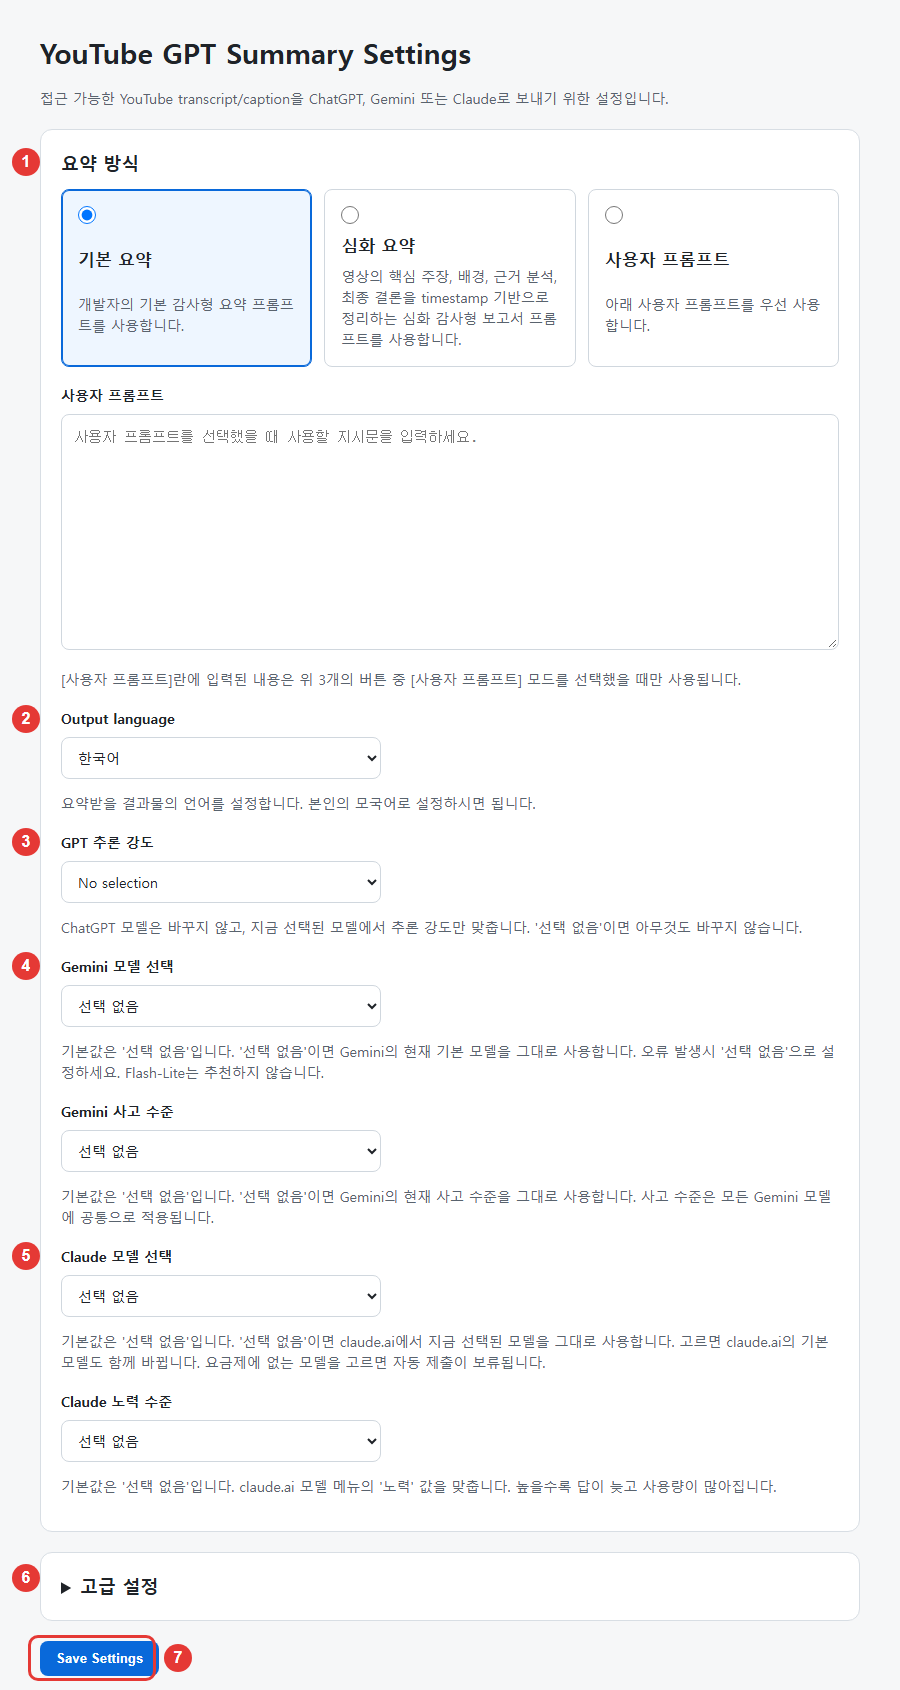
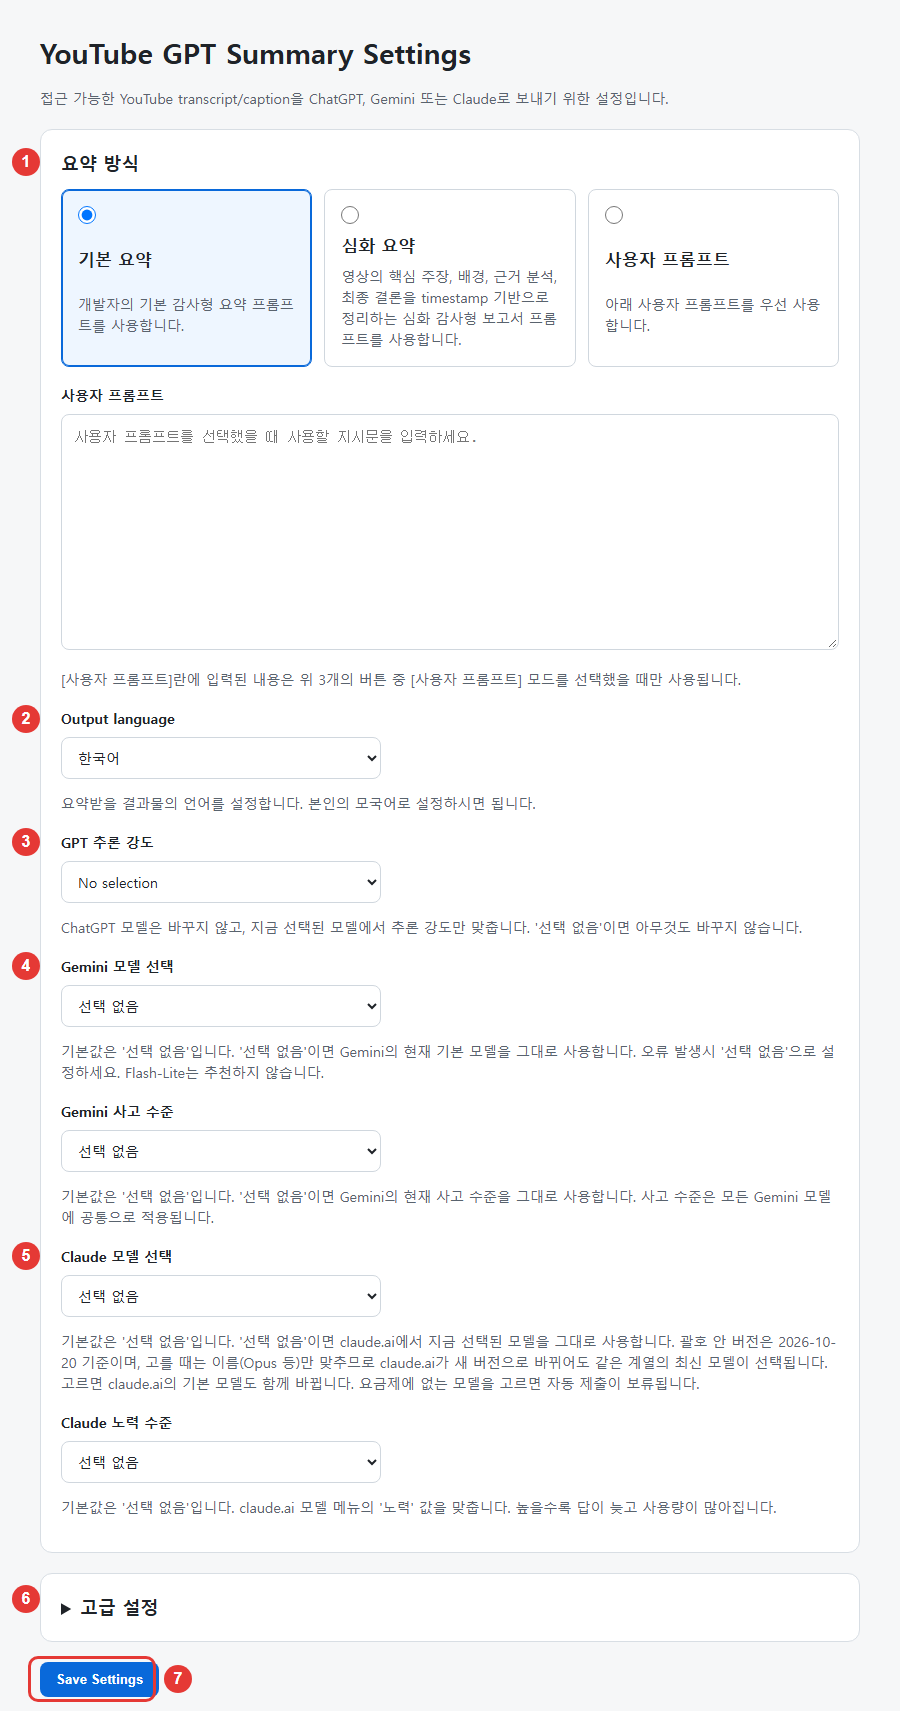
v0.1.112: Claude 모델 선택지에 현재 버전 표기, 선택은 이름(계열)으로만

diff --git a/src/shared/constants.js b/src/shared/constants.js
@@ -1,6 +1,6 @@
 globalThis.YGS = globalThis.YGS || {};
 
-globalThis.YGS.VERSION = "0.1.111";
+globalThis.YGS.VERSION = "0.1.112";
 
 globalThis.YGS.DEFAULT_SETTINGS = {
   customPrompt: null,
@@ -316,13 +316,15 @@ globalThis.YGS.GEMINI_THINKING_LEVELS = [
 
 // 2026-10-20 claude.ai model menu (menuitemradio rows): Fable 5.1 / Opus 5.5 / Sonnet 5.5 /
 // Haiku 5.5, each row followed by a short description. Older models sit under "더 많은 모델"
-// and are not offered. Matchers compare against the row's first line (the model name).
+// and are not offered. Matching uses the family name only ("prefix:opus"), never the version,
+// so a new release (e.g. Opus 6) is picked without a code change because the main list comes
+// first. The version in the label is display-only: update it when claude.ai changes.
 globalThis.YGS.CLAUDE_MODELS = [
   { value: "none", label: "선택 없음", matchers: [] },
-  { value: "fable", label: "Fable", matchers: ["prefix:fable"] },
-  { value: "opus", label: "Opus", matchers: ["prefix:opus"] },
-  { value: "sonnet", label: "Sonnet", matchers: ["prefix:sonnet"] },
-  { value: "haiku", label: "Haiku", matchers: ["prefix:haiku"] }
+  { value: "fable", label: "Fable (현재 Fable 5.1)", matchers: ["prefix:fable"] },
+  { value: "opus", label: "Opus (현재 Opus 5.5)", matchers: ["prefix:opus"] },
+  { value: "sonnet", label: "Sonnet (현재 Sonnet 5.5)", matchers: ["prefix:sonnet"] },
+  { value: "haiku", label: "Haiku (현재 Haiku 5.5)", matchers: ["prefix:haiku"] }
 ];
 
 // 2026-10-20 claude.ai "노력" submenu: 낮음 / 중간(추천) / 높음 / 엑스트라 / 최대(4x 이상 사용량).

diff --git a/src/options/options.html b/src/options/options.html
@@ -68,7 +68,7 @@
       <div class="model-area">
         <label for="claudeModel" class="label">Claude 모델 선택</label>
         <select id="claudeModel"></select>
-        <p class="hint">기본값은 '선택 없음'입니다. '선택 없음'이면 claude.ai에서 지금 선택된 모델을 그대로 사용합니다. 고르면 claude.ai의 기본 모델도 함께 바뀝니다. 요금제에 없는 모델을 고르면 자동 제출이 보류됩니다.</p>
+        <p class="hint">기본값은 '선택 없음'입니다. '선택 없음'이면 claude.ai에서 지금 선택된 모델을 그대로 사용합니다. 괄호 안 버전은 2026-10-20 기준이며, 고를 때는 이름(Opus 등)만 맞추므로 claude.ai가 새 버전으로 바뀌어도 같은 계열의 최신 모델이 선택됩니다. 고르면 claude.ai의 기본 모델도 함께 바뀝니다. 요금제에 없는 모델을 고르면 자동 제출이 보류됩니다.</p>
       </div>
 
       <div class="model-area">

diff --git a/docs/DEVELOPMENT.md b/docs/DEVELOPMENT.md
@@ -1,8 +1,10 @@
-# 개발 기록 (YouTube GPT Summary v0.1.111)
+# 개발 기록 (YouTube GPT Summary v0.1.112)
 
 사용자용 안내는 [README](../README.md). 이 문서는 버전별 변경, 내부 동작, 디버깅 기록이다.
 
 GitHub: <https://github.com/igayowai/youtube-gpt-summary>. GitHub Pages serves the repository root of `main`, so the root `privacy.html` is the Chrome Web Store privacy policy URL (<https://igayowai.github.io/youtube-gpt-summary/privacy.html>). Keep it identical to `docs/privacy.html` and do not move or delete it. `.nojekyll` keeps Pages from running Jekyll over the docs.
+
+v0.1.112 (2026-10-20): Claude model options show the current version in brackets ("Opus (현재 Opus 5.5)"). Selection still matches the family name only (`prefix:opus`), so a new release such as Opus 6 is chosen without a code change; the bracketed version is display-only and is updated by hand. Test: `claude-anchors.test.cjs` renames the captured rows to Opus 6 / Sonnet 6.
 
 v0.1.111 (2026-10-20): Claude (claude.ai web chat) added as a third provider. Buttons are now labelled `GPT` / `Gemini` / `Claude` in service colors (black, blue-to-purple gradient, #D97757); before the transcript is ready they are dimmed instead of the old green ready state. `src/content/claude.js` opens `claude.ai/new` (`?incognito` unless turned off), refuses to paste when incognito is not confirmed, optionally picks model and effort (both the submenu layout and the compact inline-group layout of the model menu), inserts with `execCommand("insertText")`, submits and confirms by an emptied composer or a URL change. Every claude.ai element is listed once in the `ANCHORS` table at the top of the file with ordered fallbacks; a miss logs one `[YGS]` line naming the candidates and stops. Evidence: `docs/ui-dom-captures/claude/new-chat/2026-10-20.md` (+ `.json` fixture used by `docs/verification/claude-anchors.test.cjs`). Live check 2026-10-20: default send (3.5k chars) and a 14-minute transcript (10k chars) sent in incognito; model/effort selection confirmed in both menu layouts, and end to end from the options page (Claude model Sonnet, effort 낮음 → selector showed "Sonnet 5.5 낮음" → sent); GPT and Gemini regression sends confirmed.
 

diff --git a/README.md b/README.md
@@ -60,7 +60,7 @@
 | 2 | Output language | 요약을 받을 언어입니다. 기본값은 한국어입니다. |
 | 3 | GPT 추론 강도 | ChatGPT가 얼마나 깊게 생각할지 정합니다. Instant(빠름)부터 Medium, High, Extra High, Pro(가장 깊음) 순입니다. **No selection** 이면 ChatGPT에 이미 설정된 그대로 둡니다. 모델은 바꾸지 않습니다. |
 | 4 | Gemini 모델 / 사고 수준 | Gemini 모델(3.5 Flash-Lite, 3.8 Flash, 3.1 Pro, 4 Argon)과 사고 수준(최저가, 보통, 최고가)을 고릅니다. **선택 없음** 이면 Gemini 기본값 그대로 둡니다. 오류가 나면 선택 없음으로 돌리세요. |
-| 5 | Claude 모델 / 노력 수준 | Claude 모델(Fable, Opus, Sonnet, Haiku)과 노력(낮음, 중간, 높음, 엑스트라, 최대)을 고릅니다. **선택 없음** 이면 claude.ai에 지금 선택된 그대로 둡니다. 고르면 claude.ai 쪽 기본 선택도 같이 바뀝니다. |
+| 5 | Claude 모델 / 노력 수준 | Claude 모델(Fable, Opus, Sonnet, Haiku. 괄호 안은 지금 버전이며, 이름으로 고르므로 claude.ai가 새 버전을 내도 그 계열 최신 모델이 선택됨)과 노력(낮음, 중간, 높음, 엑스트라, 최대)을 고릅니다. **선택 없음** 이면 claude.ai에 지금 선택된 그대로 둡니다. 고르면 claude.ai 쪽 기본 선택도 같이 바뀝니다. |
 | 6 | 고급 설정 | 눌러서 펼칩니다. 네 항목 모두 기본은 켜짐입니다. **빠른 사전 추출**: 영상에 들어가자마자 자막을 미리 받아 둡니다(버튼이 진한 색이 됨). **ChatGPT 임시채팅**: 끄면 일반 채팅으로 보냅니다. **Claude 시크릿 모드**: 끄면 일반 대화로 보냅니다. 켜져 있는데 시크릿 모드가 확인되지 않으면 입력하지 않고 클립보드에만 남깁니다. **자동 제출**: 끄면 입력만 하고 전송은 직접 합니다. |
 | 7 | Save Settings | 바꾼 뒤 **꼭 눌러야 저장됩니다.** |
 
